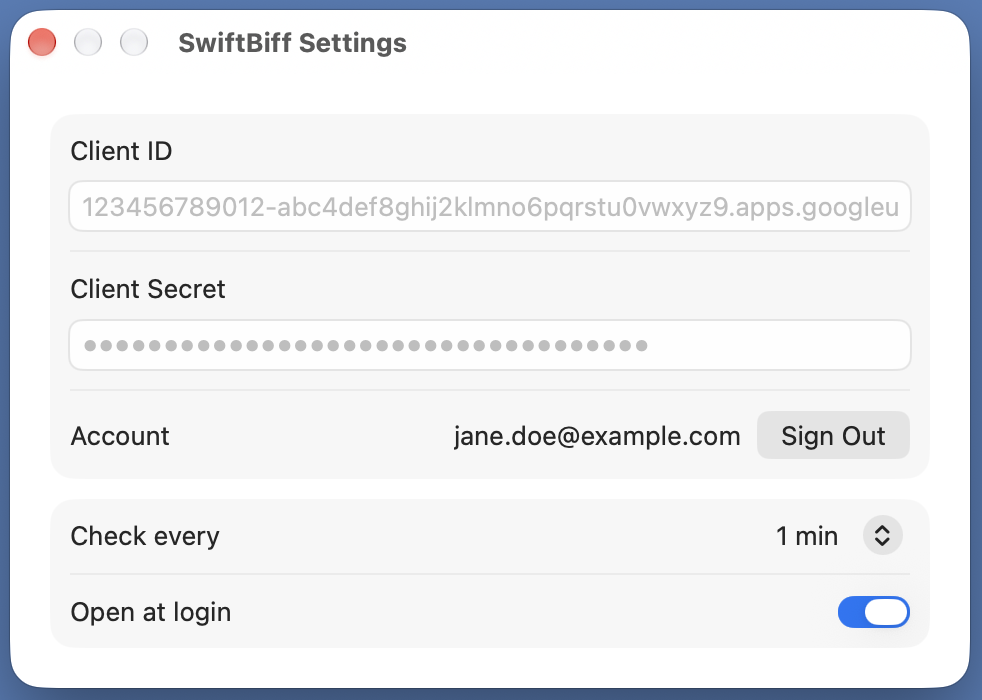
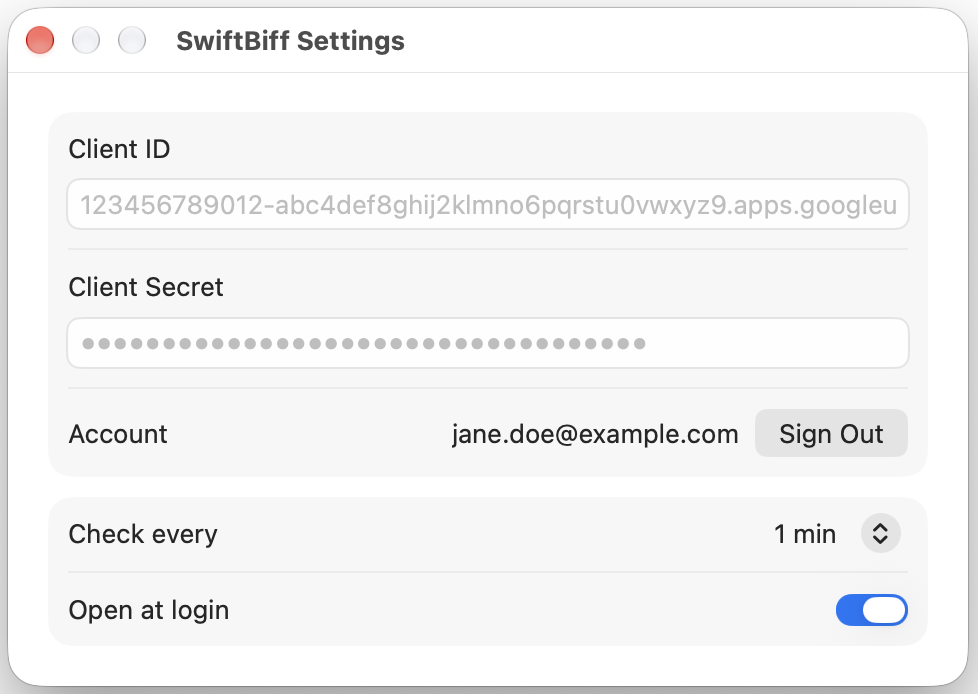
Retake the screenshots on a white desktop

diff --git a/README.md b/README.md
@@ -2,7 +2,7 @@
 
 SwiftBiff is a macOS menu bar app for Gmail. It shows how many unread conversations are in your inbox, lists the sender and subject of the newest ones, and opens the inbox or a clicked conversation in your default browser.
 
-<img src="assets/swiftbiff-dropdown.png" width="498" alt="The SwiftBiff menu with an unread count of 17 and a list of senders and subjects">
+<img src="assets/swiftbiff-dropdown.png" width="497" alt="The SwiftBiff menu with an unread count of 17 and a list of senders and subjects">
 
 SwiftBiff asks Google for the `gmail.metadata` scope and nothing else. That scope covers labels, counts and message headers. It does not cover message bodies or attachments, so SwiftBiff cannot read your mail even if it wanted to. It cannot send, delete or change anything either.
 
@@ -23,7 +23,7 @@ SwiftBiff has no shared Google client. You create your own, once. It takes about
 5. Under Clients, create an OAuth client with application type "Desktop app". Copy the client ID and client secret.
 6. Open SwiftBiff's Settings, paste the client ID and secret, and click Sign In. Your browser opens Google's consent screen. After you approve, the tab says you can close it.
 
-   <img src="assets/swiftbiff-settings.png" width="491" alt="The SwiftBiff settings window, signed in">
+   <img src="assets/swiftbiff-settings.png" width="489" alt="The SwiftBiff settings window, signed in">
 
 A Workspace admin can block restricted Gmail scopes like `gmail.metadata` for apps they have not configured. If sign-in fails with an admin policy error, ask your admin to allow your client ID.
 
